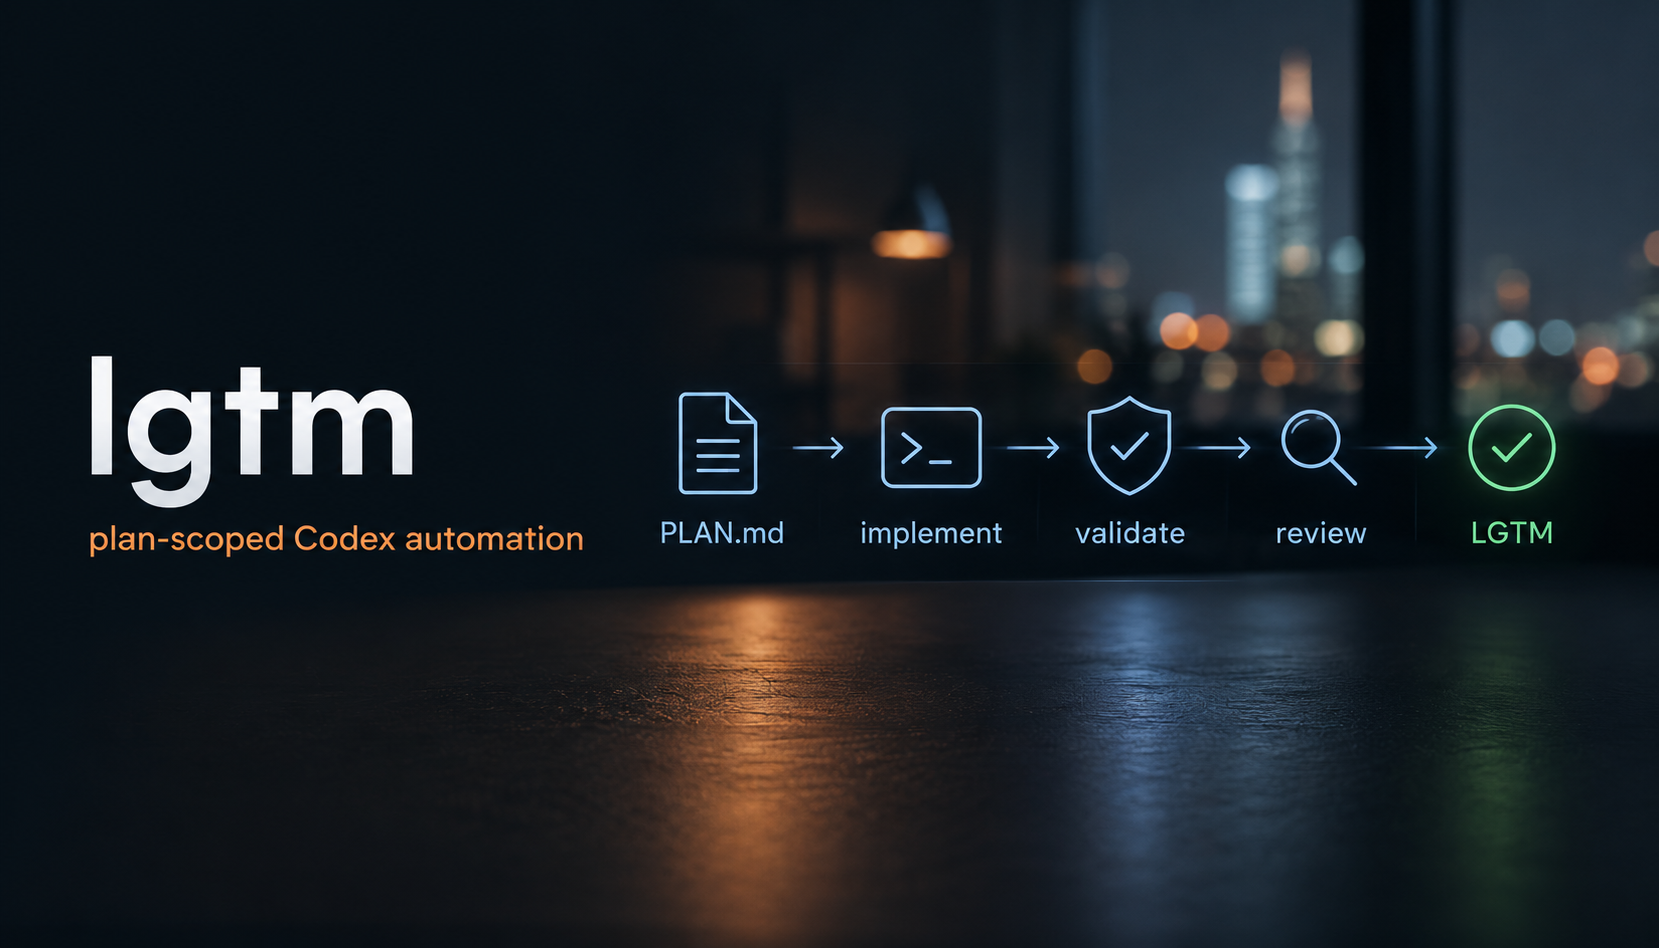
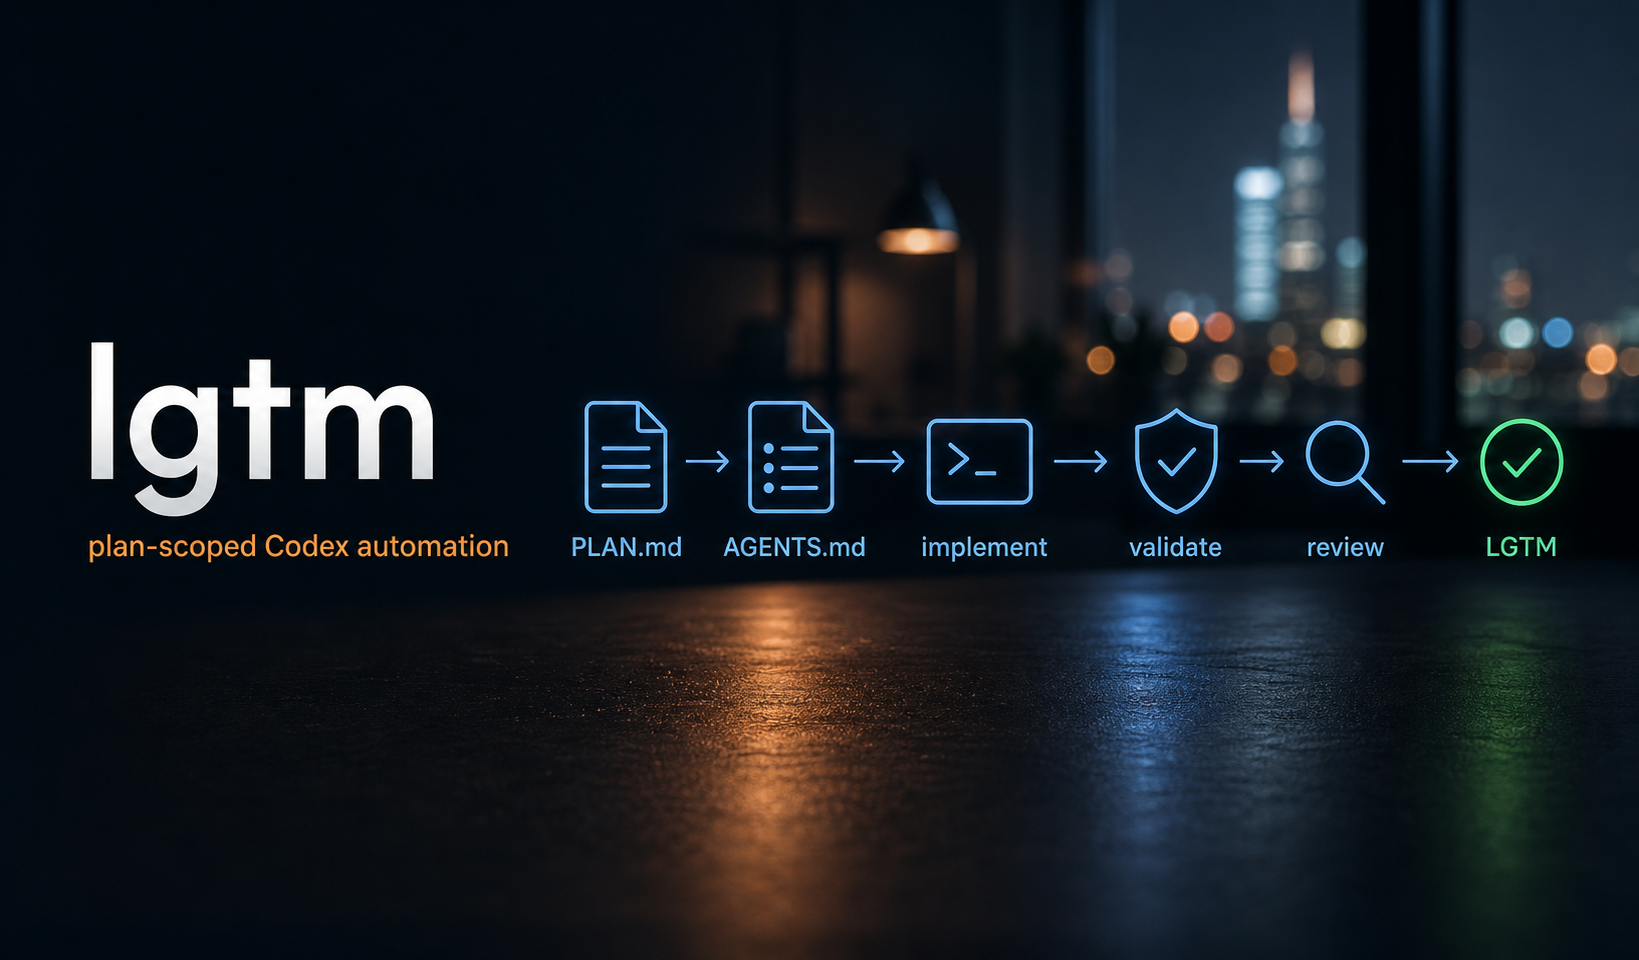
Update README for AGENTS.md plan mode

diff --git a/README.md b/README.md
@@ -2,9 +2,9 @@
 
 <div align="center">
 
-<img src="assets/banner.png" alt="lgtm banner" width="100%">
+<img src="assets/banner.png" alt="lgtm workflow banner showing PLAN.md and AGENTS.md before implementation, validation, and review" width="100%">
 
-**Run Codex through local, plan-scoped implementation, validation, and review passes.**
+**Create repo-local planning artifacts, then run Codex through scoped implementation, validation, and review passes.**
 
 ![Rust](https://img.shields.io/badge/Rust-2024-orange?style=flat-square&logo=rust)
 ![CLI](https://img.shields.io/badge/CLI-Codex-blue?style=flat-square)
@@ -13,8 +13,9 @@
 
 </div>
 
-`lgtm` is a small Rust CLI for creating a repo-local `PLAN.md` with Codex and
-then running that plan through a repeatable Codex execution loop. Run mode
+`lgtm` is a small Rust CLI for creating repo-local `PLAN.md` and, when missing,
+`AGENTS.md` files with Codex, then running that plan through a repeatable Codex
+execution loop. Run mode
 treats each `## Phase N - ...` or `## Phase N: ...` heading as one bounded unit
 of work and runs that phase through three local Codex passes:
 
